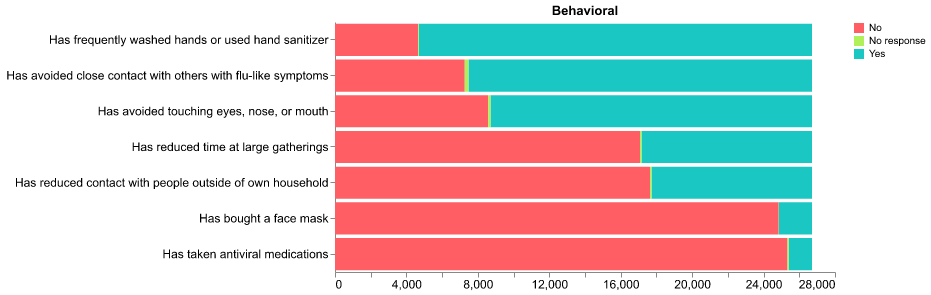
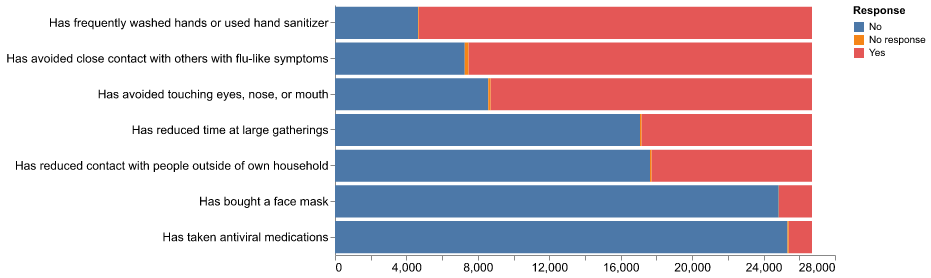
Remove color scale for chart of behavioral features.

diff --git a/01 Driven Data - Flu Shot/src/flu_shot_data.py b/01 Driven Data - Flu Shot/src/flu_shot_data.py
@@ -502,7 +502,7 @@ class FluShotData:
                       'Has bought a face mask',
                       'Has taken antiviral medications']
                     ).title(''),
-            color=alt.Color("value:N").title("Response").scale('rainbow')
+            color=alt.Color("value:N").title("Response")
         ).configure_axis(
             labelFontSize=12,
             grid=False
